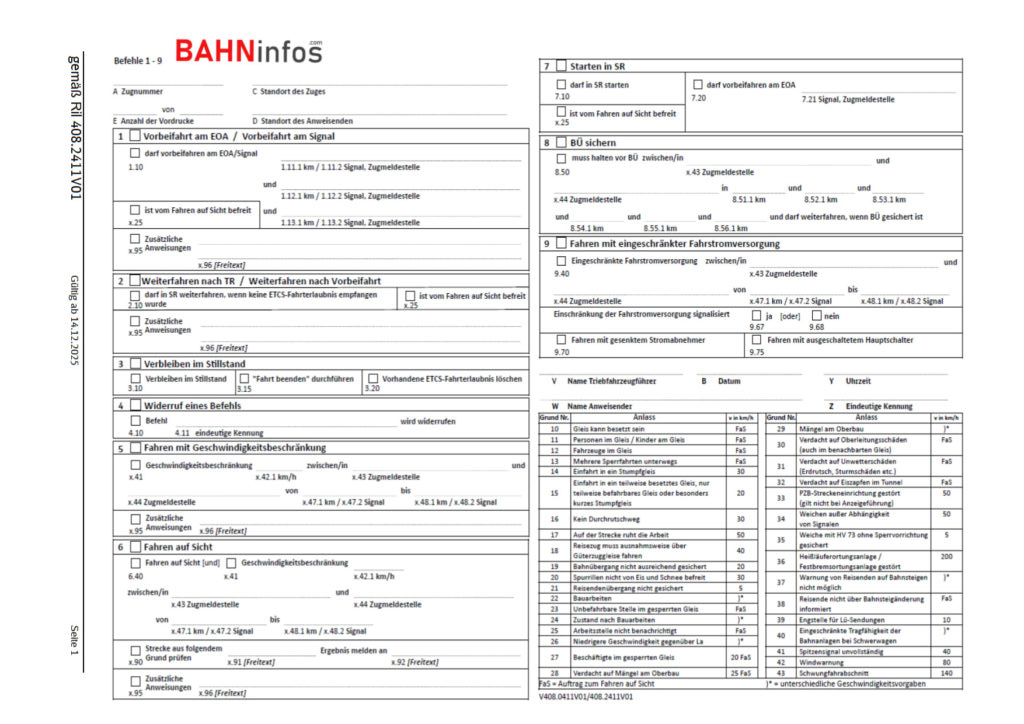
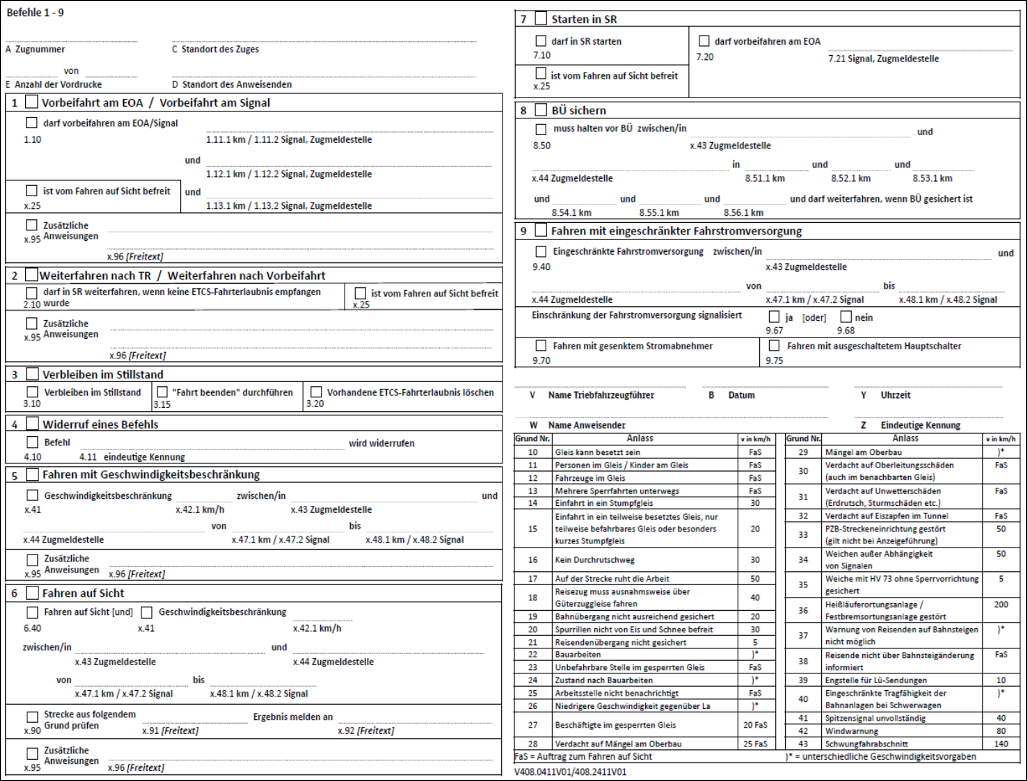
feat: saubere Original-Vordruck-Scans als Bildansicht verwenden

diff --git a/assets/app.js b/assets/app.js
@@ -1054,13 +1054,13 @@ function orderForm(command) {
     </p>
     <figure class="vordruck-scan-page">
       <a href="assets/vordruck-seite-1.png" target="_blank" rel="noopener">
-        <img src="assets/vordruck-seite-1.png?v=20261116i" alt="Befehlsvordruck Seite 1, Vorderseite mit den Befehlen 1 bis 9 und der Kopfzeile" />
+        <img src="assets/vordruck-seite-1.png?v=20261116j" alt="Befehlsvordruck Seite 1, Vorderseite mit den Befehlen 1 bis 9 und der Kopfzeile" />
       </a>
       <figcaption>Seite 1 · Vorderseite (Befehle 1 – 9) · zum Vergrößern anklicken</figcaption>
     </figure>
     <figure class="vordruck-scan-page">
       <a href="assets/vordruck-seite-2.png" target="_blank" rel="noopener">
-        <img src="assets/vordruck-seite-2.png?v=20261116i" alt="Befehlsvordruck Seite 2, Rückseite mit den nationalen Befehlen 21 bis 95" />
+        <img src="assets/vordruck-seite-2.png?v=20261116j" alt="Befehlsvordruck Seite 2, Rückseite mit den nationalen Befehlen 21 bis 95" />
       </a>
       <figcaption>Seite 2 · Rückseite (Befehle 21 – 95) · zum Vergrößern anklicken</figcaption>
     </figure>
